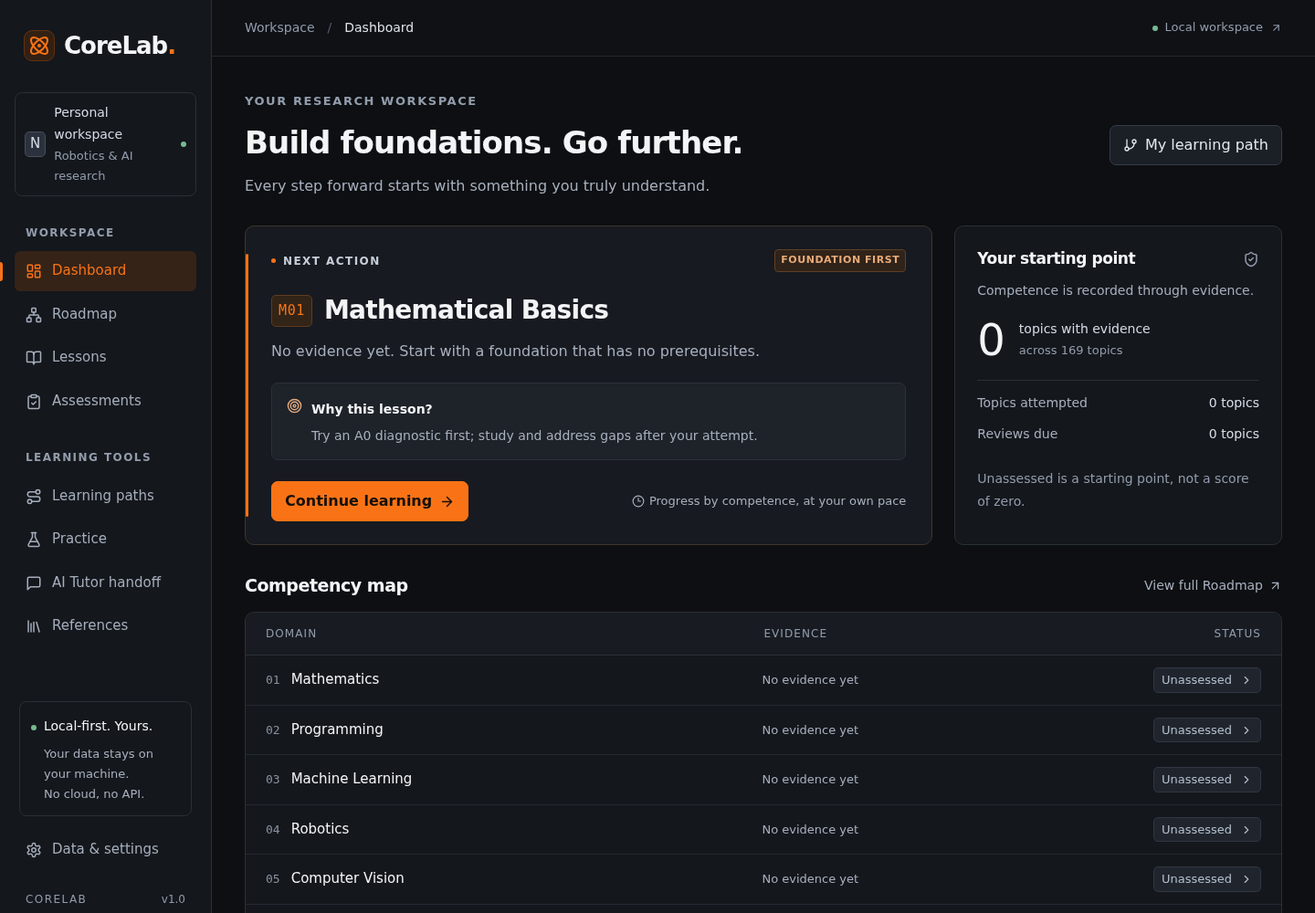
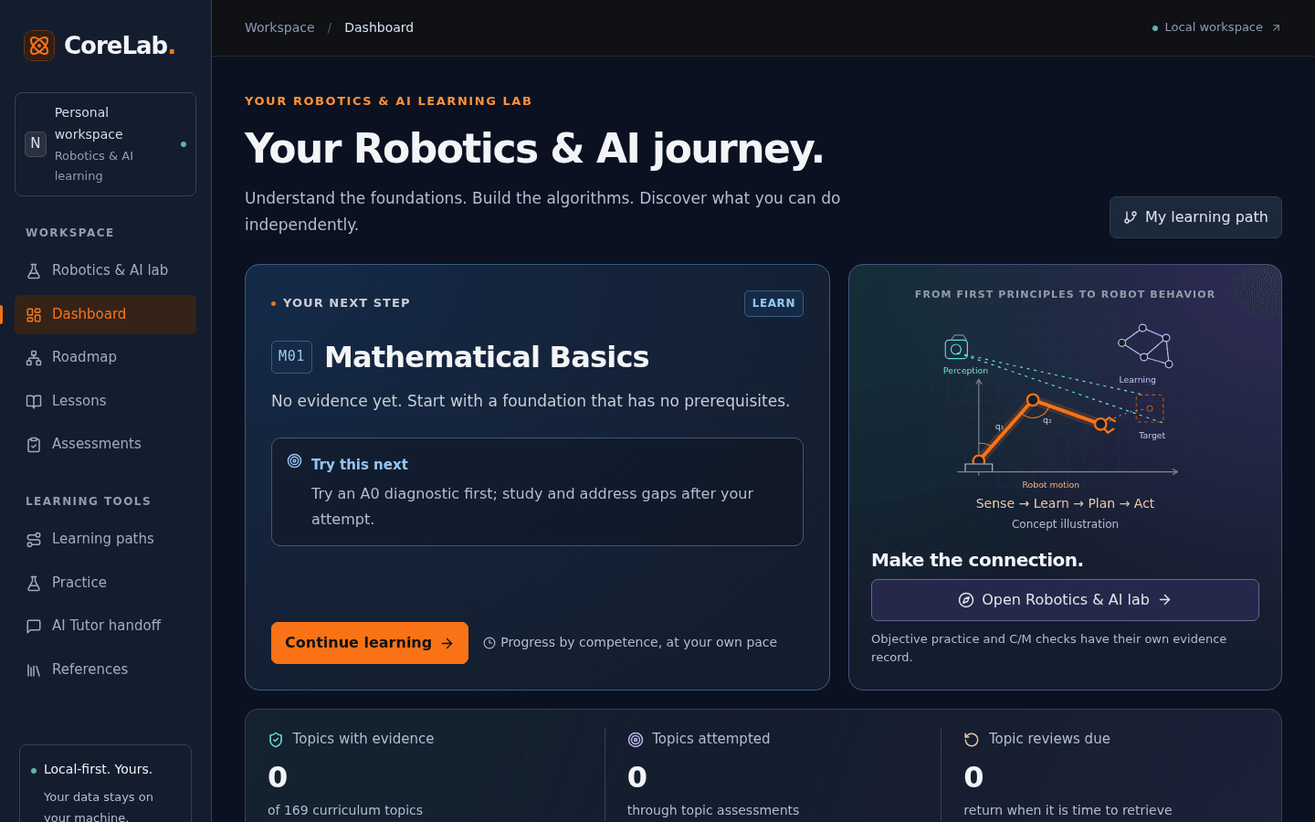
docs: rewrite README with screenshots and current curriculum coverage
Present CoreLab with fresh screenshots of the dashboard, roadmap graph,
lessons, labs, videos and diagnostics, a figure gallery, a curriculum map,
the anatomy of a lesson and an honest status section. Screenshots were
captured from a production build on an empty temporary database.

diff --git a/README.md b/README.md
@@ -1,46 +1,45 @@
 <div align="center">
 
-# CoreLab — Learn. Build. Prove.
+# 🤖 CoreLab
 
-**Learn Robotics & AI from first principles.**
+### Learn Robotics & AI from first principles — on your own machine.
 
-[![Node.js 24+](https://img.shields.io/badge/Node.js-24%2B-43853d)](package.json)
+**169 topics · 169 full lessons · 1,746 worked exercises · 3,133 interactive questions · 169 hands-on labs · 270 curated videos**
+
+[![Node.js 24+](https://img.shields.io/badge/Node.js-24%2B-43853d?logo=node.js&logoColor=white)](package.json)
+[![Next.js](https://img.shields.io/badge/Next.js-App_Router-000000?logo=next.js&logoColor=white)](https://nextjs.org/)
+[![TypeScript](https://img.shields.io/badge/TypeScript-strict-3178c6?logo=typescript&logoColor=white)](tsconfig.json)
 [![Code: MIT](https://img.shields.io/badge/Code-MIT-f97316)](LICENSE)
 [![Content: CC BY 4.0](https://img.shields.io/badge/Content-CC_BY_4.0-64748b)](LICENSE-CONTENT)
+[![PRs welcome](https://img.shields.io/badge/PRs-welcome-a3e635)](CONTRIBUTING.md)
 
-[Quick Start](#quick-start) · [Learning workflow](#how-to-learn-effectively-with-corelab) · [User guide](docs/guide.md) · [Contributing](CONTRIBUTING.md)
+[**Quick start**](#-quick-start) · [**Features**](#-what-you-get) · [**Curriculum**](#-the-curriculum) · [**How to study**](#-how-to-study-with-corelab) · [**User guide**](docs/guide.md) · [**Contributing**](CONTRIBUTING.md)
+
+<br/>
+
+<img src="docs/images/hero-lab.png" alt="CoreLab Robotics & AI lab: learn robotics and AI from first principles, with paths for robot motion, computer vision, machine learning and reinforcement learning" width="100%"/>
 
 </div>
 
-CoreLab is a local, single-user learning workspace that connects a prerequisite-based Robotics & AI curriculum with lessons, interactive explanations, independent exercises and evidence-based assessment. It helps you decide what to study next—and distinguish what you have read from what you can independently explain, calculate and implement.
+<br/>
 
-![CoreLab dashboard showing the next foundation topic and an unassessed competency map](docs/images/dashboard.png)
+CoreLab is a **free, local-first learning workspace** that takes you from vectors and Python to Kalman filters, inverse kinematics, computer vision and reinforcement learning. All of it is arranged on a prerequisite map, so you always know what to learn next. Each topic follows the same loop: **watch → understand → derive → implement → verify → review.** Your progress lives on your computer. There are no accounts, no subscriptions and no cloud.
 
-_Real application screenshot from an isolated, empty workspace. No personal learning data is included._
+> **Progress is measured by what you can independently explain, implement and verify — not by how many videos you watch.**
 
-## Key features
+## ✨ Why CoreLab?
 
-|                            | What you can do                                                                                                                                                                                                      |
-| -------------------------- | -------------------------------------------------------------------------------------------------------------------------------------------------------------------------------------------------------------------- |
-| **Follow the foundations** | Explore a 169-topic prerequisite graph through searchable list and graph views, learning paths and explained next-step recommendations.                                                                              |
-| **Watch and experiment**   | Study 31 complete lessons, 28 curated video resources and eight interactive models—from vector projection and robot kinematics to CNN filters and Q-learning. Video coverage currently reaches 25 of the 31 lessons. |
-| **Build independently**    | Use Python and C++ starters, numerical exercises and reproducible experiment templates. Fixed local Python verifiers support M02 and PY01.                                                                           |
-| **Prove what you know**    | Track conceptual understanding, mathematical reasoning, implementation and transfer/retention separately. Assistance, diagnostic contracts and evidence stay inspectable.                                            |
-| **Learn from mistakes**    | Practice weak skills using authored question variants, inspect feedback and prerequisites, and revisit topics on a 1/3/7/21-day review schedule.                                                                     |
-| **Keep control**           | Store notes and progress in local SQLite, export backups, and optionally copy context to ChatGPT manually. No AI API, account or cloud subscription is required.                                                     |
+- 🗺 **A real roadmap, not a playlist.** A 169-topic prerequisite graph covers mathematics, programming, ML, robotics, vision, RL, embodied AI and research methods. It explains why each next step is recommended.
+- 📖 **Complete lessons for every topic.** Each one has intuition, derivation, a fully worked example, a reference implementation, failure modes, trade-offs and further reading. Mathematics renders with KaTeX.
+- ✍ **Practice that builds real skill.** Every lesson has 8–12 graded exercises with worked answers, including problems adapted from well-known textbooks and courses. There are also interactive diagnostics and a targeted practice bank that finds your weak skills.
+- 🧪 **Labs you actually run.** Every topic has a hands-on lab with starter code, runnable tests and expected output. You code it yourself, on your own machine.
+- 🎬 **Curated videos for every topic.** There are 270 videos from 3Blue1Brown, MIT OpenCourseWare, Stanford, Steve Brunton, Cyrill Stachniss, CppCon and others. The player loads only when you click: no autoplay, with an original-source link.
+- 🖼 **160 original diagrams.** Purpose-drawn figures explain the idea: feedback loops, Kalman updates, capture points, PPO clipping, friction cones and more.
+- 🔒 **Yours.** Local SQLite, exportable backups, no analytics, no AI API keys. Copying context to an AI tutor is optional and manual, with a preview first.
 
-<details>
-<summary>See an interactive lesson</summary>
+## 🚀 Quick start
 
-![Vector exploration with sliders, projection, dot product and a coordinate diagram](docs/images/vector-exploration.png)
-
-_Real browser-test capture. The model runs locally; changing a parameter does not award mastery._
-
-</details>
-
-## Quick Start
-
-Install **Node.js 24 or newer**, npm and Git. Python 3 is needed for the optional verified Python labs; a C++17 compiler is needed only for C++ exercises.
+You need **Node.js 24+** and Git. Python 3 is used by most labs; a C++17 compiler is only needed for the C++ track.
 
 ```bash
 git clone https://github.com/trongnghia-le/corelab-robotics-ai.git
@@ -49,130 +48,218 @@ npm ci
 npm run dev
 ```
 
-Open **http://127.0.0.1:3000**. The database is created automatically. For a production build:
+Open **http://127.0.0.1:3000**. The local database is created automatically.
 
 ```bash
-npm run build
-npm start
+npm run build && npm start   # production mode
+npm run dev:v2               # also enable the objective-based Robotics & AI lab at /objectives
 ```
 
-Keep the local server running while studying. After dependencies are installed, lessons, equations, visualizations, assessments and notes work without Internet. External references and video playback need a connection. YouTube players load only after a click, without autoplay, and always offer an original-source link.
+<details>
+<summary><b>Windows, macOS and Linux notes</b></summary>
 
-**Local use only:** CoreLab has no user authentication and is designed to bind to loopback. Do not expose its server to a network or deploy it as a public multi-user service. The public repository is source code, not a hosted learning service.
+<br/>
 
-## Cross-Platform Installation
+| System             | Install once                                                                                                                                                           | Terminal                                                                                       |
+| ------------------ | ---------------------------------------------------------------------------------------------------------------------------------------------------------------------- | ---------------------------------------------------------------------------------------------- |
+| **Windows 10/11**  | [Node.js 24+](https://nodejs.org/en/download), [Git](https://git-scm.com/downloads) and optionally [Python 3](https://www.python.org/downloads/) (tick "Add to PATH"). | PowerShell or Command Prompt. If PowerShell blocks `npm.ps1`, use `npm.cmd` or Command Prompt. |
+| **macOS**          | Node.js 24+ (matching Apple Silicon/Intel), Git and optional Python 3.                                                                                                 | Terminal. Check `node --version` first.                                                        |
+| **Linux / Ubuntu** | Node.js 24+ from the official instructions (distribution packages are often older); `sudo apt install git python3`.                                                    | Any terminal. Check the Node version before `npm ci`.                                          |
 
-CoreLab is designed for **Windows 10/11, macOS and Linux**, using Node.js 24+. Use a current browser and keep the local server running; no Docker, native app packaging or cloud service is needed.
+Use another port with `npm run dev -- --port 3001` and stop the server with **Ctrl+C**. After `npm ci`, lessons, equations, diagrams, quizzes and notes work offline; videos and external links need a connection.
 
-| System             | Install once                                                                                                                                                                                                                       | Terminal                                                                                                                                                   |
-| ------------------ | ---------------------------------------------------------------------------------------------------------------------------------------------------------------------------------------------------------------------------------- | ---------------------------------------------------------------------------------------------------------------------------------------------------------- |
-| **Windows 10/11**  | Install [Node.js 24+](https://nodejs.org/en/download), [Git](https://git-scm.com/downloads) and, for Python labs, [Python 3](https://www.python.org/downloads/). Enable Python's PATH option if offered, then reopen the terminal. | PowerShell or Command Prompt. If PowerShell blocks `npm.ps1`, use `npm.cmd` in place of `npm` or use Command Prompt; no execution-policy change is needed. |
-| **macOS**          | Install a Node.js 24+ release compatible with your macOS version, Git and optional Python 3. Match Apple Silicon/Intel downloads to your machine.                                                                                  | Terminal; confirm `node --version`, `npm --version` and `git --version`.                                                                                   |
-| **Linux / Ubuntu** | Install Node.js 24+ from the official installation instructions; a distribution's default `nodejs` package may be older. On Ubuntu, Git and optional Python can be installed with `sudo apt install git python3`.                  | Your usual terminal; confirm the Node version before `npm ci`.                                                                                             |
+**Local use only.** CoreLab has no authentication and binds to loopback. Don't expose the server to a network or host it as a public multi-user service.
 
-Then run the same **Quick Start** commands above on every platform. To use port 3001, run `npm run dev -- --port 3001`. Stop the server with **Ctrl+C**. Python labs automatically detect `python3`, `python`, or Windows `py -3`; Python is optional for studying and running the web app. A C++17 compiler is optional for C++ exercises. Quote file paths containing spaces, and run npm commands from the repository folder.
+</details>
 
-**Platform checks:** Linux is tested locally. The [validation workflow](.github/workflows/validate.yml) runs clean installation, tests and a build with Node 24 on Linux, Windows and macOS when GitHub Actions is enabled; Chromium desktop/mobile viewport tests run on Linux. Windows and macOS have not been run interactively in this workspace. Consult actual workflow results before treating those platforms as verified.
+## 🧭 What you get
 
-A local installation runs on **your own computer** and keeps its data there. A hosted website runs on someone else's server: making this repository public does not host CoreLab or sync progress. Mobile layouts are browser-responsive; there is no Android/iOS native app or cross-device synchronization. Do not expose the local server to access it from a phone.
+<table>
+<tr>
+<td width="50%" valign="top">
 
-## How CoreLab works
+### Your next step, explained
 
-The Dashboard and prerequisite graph guide topic selection; lessons build understanding; assessments and supported local tests record evidence. Notes, review dates and backups stay in a local SQLite workspace. Its competency framework separates **C** conceptual understanding, **M** mathematical reasoning, **I** independent implementation and **T** transfer/retention.
+The dashboard shows a single recommended next topic and tells you why. It also tracks the topics you have evidence for, the ones you have attempted, and the reviews that are due.
 
-## How to Learn Effectively with CoreLab
+<img src="docs/images/dashboard.png" alt="Dashboard with the recommended next topic and progress counters"/>
+
+</td>
+<td width="50%" valign="top">
+
+### A map of 169 connected topics
+
+Search, filter by domain or status, or switch to an interactive graph to see how the prerequisites connect.
+
+<img src="docs/images/roadmap-graph.png" alt="Interactive prerequisite graph of the mathematics topics"/>
+
+</td>
+</tr>
+<tr>
+<td width="50%" valign="top">
+
+### Lessons with original diagrams
+
+Each topic comes with a long-form lesson that has a table of contents, rendered math and a figure drawn for the idea. Shown here: the Kalman update.
+
+<img src="docs/images/lesson-figure.png" alt="Kalman filtering lesson showing the prior, measurement and posterior Gaussian figure"/>
+
+</td>
+<td width="50%" valign="top">
+
+### Hands-on labs with tests
+
+Each lab gives you a goal, setup, tasks, starter code with clear contracts, runnable tests, the expected output and an extension challenge.
+
+<img src="docs/images/lesson-lab.png" alt="Lab starter code for a Kalman filter with syntax highlighting and a copy button"/>
+
+</td>
+</tr>
+<tr>
+<td width="50%" valign="top">
+
+### Curated video, on your terms
+
+Each topic has one to three verified videos. They load only when you ask, so nothing autoplays, and every video links to its original source.
+
+<img src="docs/images/lesson-video.png" alt="Recommended video panel with three 3Blue1Brown linear algebra videos"/>
+
+</td>
+<td width="50%" valign="top">
+
+### Evidence, not checkboxes
+
+Diagnostics separately track **C**oncept, **M**ath, **I**mplementation and **T**ransfer. Each one shows suggested prerequisites and your history of evidence.
+
+<img src="docs/images/assessment.png" alt="Kalman filtering diagnostic with C/M/I/T competence cards and suggested prerequisites"/>
+
+</td>
+</tr>
+</table>
+
+<div align="center">
+
+**160 original teaching diagrams across the curriculum**
+
+<img src="docs/images/figure-gallery.png" alt="Gallery of lesson figures: PID loop, Kalman update, capture point, SARSA vs Q-learning, LQR, friction-cone grasp, PPO clipping, C++ encapsulation" width="100%"/>
+
+</div>
+
+## 📚 The curriculum
+
+```mermaid
+flowchart LR
+    M[Mathematics<br/>16 topics] --> P[Programming<br/>30 topics]
+    M --> ML[Machine Learning<br/>12 topics]
+    P --> ML
+    M --> R[Robotics<br/>42 topics]
+    P --> R
+    ML --> V[Computer Vision<br/>20 topics]
+    ML --> RL[Reinforcement &<br/>Robot Learning<br/>24 topics]
+    R --> RL
+    R --> E[Embodied &<br/>Cognitive Robotics<br/>15 topics]
+    V --> E
+    RL --> E
+    M --> S[Scientific Research<br/>10 topics]
+```
+
+| Domain                         |  Topics | A taste of what's inside                                                                     |
+| ------------------------------ | ------: | -------------------------------------------------------------------------------------------- |
+| Mathematics                    |      16 | Vectors, matrices, calculus, probability, statistics, optimization, Lie groups               |
+| Programming                    |      30 | Python, NumPy, testing, modern C++ (RAII, templates, concurrency), Git, Linux, Docker        |
+| Machine Learning               |      12 | Regression, classification, neural networks, backpropagation, training and evaluation        |
+| Robotics                       |      42 | Frames, kinematics, inverse kinematics, dynamics, PID/LQR/MPC, Kalman filters, MuJoCo, ROS 2 |
+| Computer Vision                |      20 | Camera models, calibration, features, CNNs, detection, tracking, visual odometry & SLAM      |
+| Reinforcement & Robot Learning |      24 | MDPs, TD learning, Q-learning, policy gradients, PPO, offline RL, imitation, sim-to-real     |
+| Embodied & Cognitive Robotics  |      15 | Task & motion planning, world models, diffusion policies, vision-language-action models      |
+| Scientific Research            |      10 | Experimental design, reproducibility, ablations, reading and writing papers                  |
+| **Total**                      | **169** | **Every topic has a full lesson, a diagnostic, a practice bank, a lab and video**            |
+
+**Beginner path:** `M01 → M02 → PY01 → M03` (notation, vectors, Python, matrices). From there, follow the dashboard. Prerequisites are suggestions, never locks.
+
+### Anatomy of a lesson
+
+| Section                            | What it gives you                                                              |
+| ---------------------------------- | ------------------------------------------------------------------------------ |
+| Why this matters · Intuition       | Where the idea shows up in real robots and AI systems, with an original figure |
+| Theory and derivation              | The math step by step, with assumptions and units stated                       |
+| Worked example                     | A fully worked numeric example you can check by hand                           |
+| **Exercises** (8–12)               | Easy → mini-project: conceptual, numeric, find-the-bug, predict, design, proof |
+| Reference implementation           | Short, runnable code with a self-test                                          |
+| **Independent practice (lab)**     | Goal, setup, tasks, starter code, tests, expected output, extension challenge  |
+| Verification · Failure modes       | How to check your result, and the mistakes people really make                  |
+| Alternatives and trade-offs        | When to pick which method                                                      |
+| Exercise answers · Further reading | Worked solutions, sources and links to official problem sets for more practice |
+
+## 🎯 How to study with CoreLab
 
 **Diagnostic → Watch → Visualize → Understand → Derive → Implement → Verify → Review**
 
-| Step                    | A practical action                                                                                                                                                                                                                            |
-| ----------------------- | --------------------------------------------------------------------------------------------------------------------------------------------------------------------------------------------------------------------------------------------- |
-| **Start**               | Follow a Dashboard recommendation or a prerequisite-based Learning Path. Check the topic's prerequisites and choose one achievable objective.                                                                                                 |
-| **Diagnostic**          | Try the full diagnostic before studying when available. Record assistance honestly: **A0** none; **A1** conceptual hint; **A2** specific hint/example; **A3** supplied solution. Only independent A0 evidence can satisfy verification gates. |
-| **Watch & Visualize**   | Use a curated video or local demonstration to build intuition. Pause, predict the next result, change one parameter, and compare what happened with your prediction. If no video/demo is mapped, use the worked example.                      |
-| **Understand & Derive** | Read the foundations, state assumptions and units, reconstruct the equation on a blank page, and explain why each term is present without looking at the solution.                                                                            |
-| **Implement**           | Solve the exercise and write the algorithm from scratch. Keep copied or AI-generated solutions as assisted practice, then attempt a fresh task independently.                                                                                 |
-| **Verify**              | Compare hand calculations with tests, try boundaries and deliberately broken cases, then use the assessment and supported local verifier. Inspect the C/M/I/T evidence instead of relying on one score.                                       |
-| **Fix Weaknesses**      | Open **Practice → My Weaknesses**, inspect recurring objective errors, review the linked concept, and practice the weak skill. A repaired mistake is not automatically full-topic mastery.                                                    |
-| **Review**              | Follow due reviews, note unresolved gaps in the topic notebook, and reconstruct the result after a delay. Then continue with the next recommended topic. Review suggestions use 1/3/7/21-day intervals.                                       |
+1. **Start** from the dashboard recommendation or a learning path, and check the prerequisites.
+2. **Diagnose** first. Record any help honestly: **A0** none, **A1** hint, **A2** example, **A3** solution.
+3. **Watch and explore.** Predict before you press play or move a slider.
+4. **Derive.** Rebuild the key equation on a blank page and explain every term.
+5. **Implement** the lab from scratch, then make the tests pass. Treat copied or AI-written code as assisted practice.
+6. **Verify.** Use hand calculations, boundaries and deliberately broken cases, then re-take the diagnostic.
+7. **Fix your weaknesses** in **Practice → My Weaknesses**, which targets the exact skills you missed.
+8. **Review** on a 1/3/7/21-day schedule and reconstruct the result from memory.
 
-**Beginner study order:** **M01 → M02 → PY01 → M03**—notation and units, vectors, Python fundamentals, then matrices. These are existing topic IDs, not new prerequisite edges: PY01 has no prerequisites and can run alongside mathematics; M03 depends on M02. Return to M02's coding exercise after learning basic Python.
+**Use ChatGPT (or any assistant) as a Socratic tutor:** choose **Copy Learning Context**, check the preview, and paste it yourself. Ask it to _"ask one question at a time and give the smallest hint I need."_ There's no API connection or automatic sync. See the [guide](docs/guide.md#chatgpt-project-workflow-no-api).
 
-**Example: a 75-minute M02 session, once basic Python is familiar**
+<details>
+<summary><b>How mastery is measured</b></summary>
 
-| Minutes | Focus                                                                                       |
-| ------- | ------------------------------------------------------------------------------------------- |
-| 0–10    | Check prerequisites and attempt the diagnostic at your actual assistance level.             |
-| 10–25   | Watch the vector lecture; predict a projection and test it with the sliders.                |
-| 25–40   | Reconstruct the dot-product/projection equations and explain the zero-vector edge case.     |
-| 40–60   | Implement the dot product independently and write boundary/property checks.                 |
-| 60–70   | Run the fixed M02 verifier, inspect any failures and use targeted practice where available. |
-| 70–75   | Save assumptions and remaining gaps in the notebook; check the next review/recommendation.  |
+<br/>
 
-Adjust this to **60–90 minutes** by shortening the video or extending independent work. A diagnostic retry counts as A0 only if it is genuinely independent; just seeing the solution is not fresh evidence.
+Reading, watching and clicking never count as mastery. A full independent (A0) diagnostic needs **≥ 80 %** with every critical item correct. Implementation evidence needs a supported fixed contract. Open answers are rubric-guided and stay unverified. Read the [assessment policy](docs/guide.md#assessment-and-mastery) for the details.
 
-**Use ChatGPT as a Socratic tutor:** choose **Copy Learning Context** on a topic or **AI Tutor handoff**, preview what will be shared, then paste it into ChatGPT yourself. Ask: _“Ask one question at a time. Let me predict and derive first. Offer the smallest hint I need; do not give a complete solution unless I ask.”_ Record any assistance accurately. Paste structured feedback back into CoreLab as unverified notes using the [manual handoff format](docs/guide.md#chatgpt-project-workflow-no-api); there is no automatic account connection or chat synchronization.
+</details>
 
-Reading, watching videos, clicking checkoffs and AI-generated solutions do **not** automatically establish verified mastery. A full A0 diagnostic needs at least **80%** and every critical item correct for its L1 gates. L2 also requires independent implementation evidence from a supported fixed contract, currently M02 or PY01. Open answers use rubrics and remain unverified; focused practice does not replace full diagnostic gates. L3/L4 certification is not implemented. See the [assessment policy](docs/guide.md#assessment-and-mastery).
+<p align="center"><img src="docs/images/mobile-lesson.png" alt="CoreLab lesson on a phone-width screen" width="260"/><br/><sub>Responsive down to phone width, with keyboard-friendly navigation.</sub></p>
 
-> **Progress is measured by what you can independently explain, implement, and verify — not by how many videos you watch.**
+## 🧪 Robotics & AI lab (V2 preview)
 
-## Curriculum overview
+Run `npm run dev:v2` to open `/objectives`. This adds an **objective-based workspace** next to the curriculum:
 
-| Domain                         |  Topics | Includes                                                            |
-| ------------------------------ | ------: | ------------------------------------------------------------------- |
-| Mathematics                    |      16 | Linear algebra, calculus, probability, optimization and geometry    |
-| Programming                    |      30 | Python, C++, testing and development tools                          |
-| Machine Learning               |      12 | Problem formulation, classical ML, neural networks and training     |
-| Robotics                       |      42 | Mechanics, kinematics, dynamics, control and simulation/systems     |
-| Computer Vision                |      20 | Images, geometry and visual learning                                |
-| Reinforcement & Robot Learning |      24 | MDPs, value learning, policies and robot learning                   |
-| Embodied & Cognitive Robotics  |      15 | Embodied intelligence and cognitive robotics                        |
-| Scientific Research            |      10 | Experimental design, reproducibility and critical evaluation        |
-| **Total**                      | **169** | A long-term map, not a claim that every topic has a complete course |
+- 43 versioned objectives
+- 39 exercise families with 266 practice items, each with two distinct application routes
+- 22 numerical lab kits (frames, FK/IK, odometry, PID, trajectories, Kalman, A\*, URDF/TF, camera calibration, visual servoing, grasping, RL, system identification, belief-space planning, and more)
+- Scoped concept/math checks (C/M) with spaced retention reviews
 
-There are **31 complete lessons with versioned diagnostics** and structured overviews for every topic. The initial focused practice bank contains **42 questions across seven topics**; unavailable video, lesson, assessment and practice coverage is stated explicitly. The [curriculum data](corelab/curriculum_graph_v1.json) is the source of truth for topic IDs and prerequisites.
+These kits are numerical and replay-based. Parts that need ROS 2, a physics engine or real hardware are listed as _unavailable_ rather than imitated. See the [implementation report](implementation-plan/IMPLEMENTATION_REPORT.md) for the exact coverage.
 
-## CoreLab V2 development preview
+## 🛠 Tech stack
 
-The optional V2 workspace adds objective-based practice alongside the existing curriculum. It currently includes **26 authored objectives, 22 exercise families plus a readiness bridge, 164 practice instances, and five manual numerical lab kits**. Choose Recommended, Explore or More Practice; prerequisites suggest preparation and never lock ordinary study.
+| Layer   | Technology                                                                 |
+| ------- | -------------------------------------------------------------------------- |
+| App     | Next.js App Router, React, strict TypeScript                               |
+| UI      | Tailwind CSS, Lucide icons, React Flow graph, Dark+ syntax highlighting    |
+| Content | Markdown + GFM, KaTeX math, original SVG figures, versioned JSON contracts |
+| Storage | SQLite via Node's built-in `node:sqlite`, Zod validation                   |
+| Quality | Vitest, Playwright, content validators, Python lab fixtures                |
 
 ```bash
-npm run dev:v2
-```
-
-Open `http://127.0.0.1:3000/objectives`. The default `npm run dev` keeps V2 off. V2 uses additive SQLite tables and preserves existing topic mastery, progress and signed reports. Use the full V2 backup in Settings to retain both histories.
-
-**Content review and release.** Every practice family, C/M form, retention pool and manual kit was checked by an owner-assigned AI review: separate reviewer instances recomputed every answer, probed misconceptions and guessing, and re-reviewed each fix until no blocker or major finding remained. This is **not** a human expert or learner-trial review. The owner activated C/M verification and retention on 2026-11-02; a form or pool is offered only with its own approved review record. Verified I and human-reviewed transfer remain unavailable. Supported resources: 8 GB RAM and about 2 GB free disk for profiles up to the 128 MiB backup limit. Manual kits never grant implementation evidence. The Curriculum V2 projection is advisory; the existing 169-topic graph remains authoritative. See the [implementation report](implementation-plan/IMPLEMENTATION_REPORT.md) and [V2 operating guide](docs/guide.md#corelab-v2-development-preview) for exact coverage, recovery and limitations.
-
-## Technology stack
-
-| Layer                  | Technology                                                                         |
-| ---------------------- | ---------------------------------------------------------------------------------- |
-| Application            | Next.js App Router, React, strict TypeScript                                       |
-| Interface              | Tailwind CSS, shared CSS, Lucide icons; English interface with dark/orange styling |
-| Learning content       | Markdown, GFM, KaTeX, React/SVG visualizations                                     |
-| Knowledge graph        | React Flow (`@xyflow/react`)                                                       |
-| Storage and validation | SQLite through Node's built-in `node:sqlite`, Zod                                  |
-| Verification           | Vitest, Playwright and fixed local Python lab tests                                |
-
-**Your data:** progress lives in `.local/corelab.sqlite`. Export a backup through **Data & settings** before replacing or moving it. Restore validates and replaces progress transactionally; it does not merge records. Stop the app before copying the entire `.local/` directory, which also holds lab-signing keys. Keep databases, exports, keys and personal notes out of Git. See [backup and restore](docs/guide.md#progress-backup-and-restore).
-
-CoreLab includes no analytics, remote UI fonts, AI requests or cloud synchronization. Loading an optional external video connects to its provider. Copying context to a tutor shares the selected notes with that service; review the preview first.
-
-## Contributing
-
-Contributions to lessons, exercises, visualizations, accessibility and bug fixes are welcome. Start with [CONTRIBUTING.md](CONTRIBUTING.md) for content quality, attribution, contract versioning and validation requirements. Detailed setup, architecture and troubleshooting are in the [user and maintainer guide](docs/guide.md).
-
-```bash
-npm run check                    # lint, types, content, unit/integration tests, build
+npm run check                    # lint, types, content validation, tests, build
 npx playwright install chromium  # once, for browser tests
-npm run test:e2e                  # isolated test database and production server
+npm run test:e2e                 # browser tests on an isolated database
 ```
 
-## License and acknowledgments
+## 🗺 Status and honest limits
 
-**Original source code and technical documentation:** [MIT](LICENSE), copyright © 2026 Le Trong Nghia. **Original educational prose, curriculum and assessment content:** [CC BY 4.0](LICENSE-CONTENT). Executable examples remain MIT. See the [licensing scope](LICENSING.md) for exact boundaries, attribution and exclusions.
+- ✅ All 169 topics have a lesson, exercises with answers, a lab, a diagnostic, a practice bank and curated video.
+- ⚠ **The content was drafted with AI assistance and checked automatically**: lab tests were run, numeric answers recomputed, links checked and figures rendered. It has **not** been reviewed by a human expert. Spotted a mistake? Please [open an issue](https://github.com/trongnghia-le/corelab-robotics-ai/issues).
+- ⚠ ROS 2, simulator and hardware labs are not included. Local automated verification of submitted code is limited to a few fixed contracts.
+- 🧭 The browser UI is tested on Linux; CI runs the build and tests on Linux, Windows and macOS.
 
-External videos, books, course materials, images, trademarks and dependencies remain the property of their respective rights holders under their own terms. A link or working embed does not grant permission to redistribute the underlying material.
+## 🤝 Contributing
 
-Thank you to the maintainers of the [open-source dependencies and educational resources](THIRD_PARTY_NOTICES.md), including 3Blue1Brown, MIT OpenCourseWare, Modern Robotics, Stanford CS231n, David Silver / Google DeepMind, Enthought and CppCon. Their inclusion does not imply endorsement.
+Corrections, new exercises, better diagrams, accessibility fixes and translations are all welcome. Start with [CONTRIBUTING.md](CONTRIBUTING.md); the [user and maintainer guide](docs/guide.md) covers architecture, data and troubleshooting.
+
+If CoreLab helps you learn, **a ⭐ on GitHub helps others find it.**
+
+## 📄 License and acknowledgments
+
+- **Code and technical docs:** [MIT](LICENSE) © 2026 Le Trong Nghia.
+- **Educational content** (lessons, exercises, figures, assessments): [CC BY 4.0](LICENSE-CONTENT). Executable examples remain MIT. See [LICENSING.md](LICENSING.md) for the exact scope.
+
+Videos, books, courses and trademarks belong to their owners under their own terms. A link or embed is not a licence to redistribute them. Exercises marked _"Adapted from"_ are original restatements that credit the source that inspired them. Thank you to 3Blue1Brown, MIT OpenCourseWare, Modern Robotics, Stanford CS231n, David Silver / Google DeepMind, Steve Brunton, Cyrill Stachniss, CppCon and every other educator listed in [THIRD_PARTY_NOTICES.md](THIRD_PARTY_NOTICES.md). Their inclusion does not imply endorsement.
